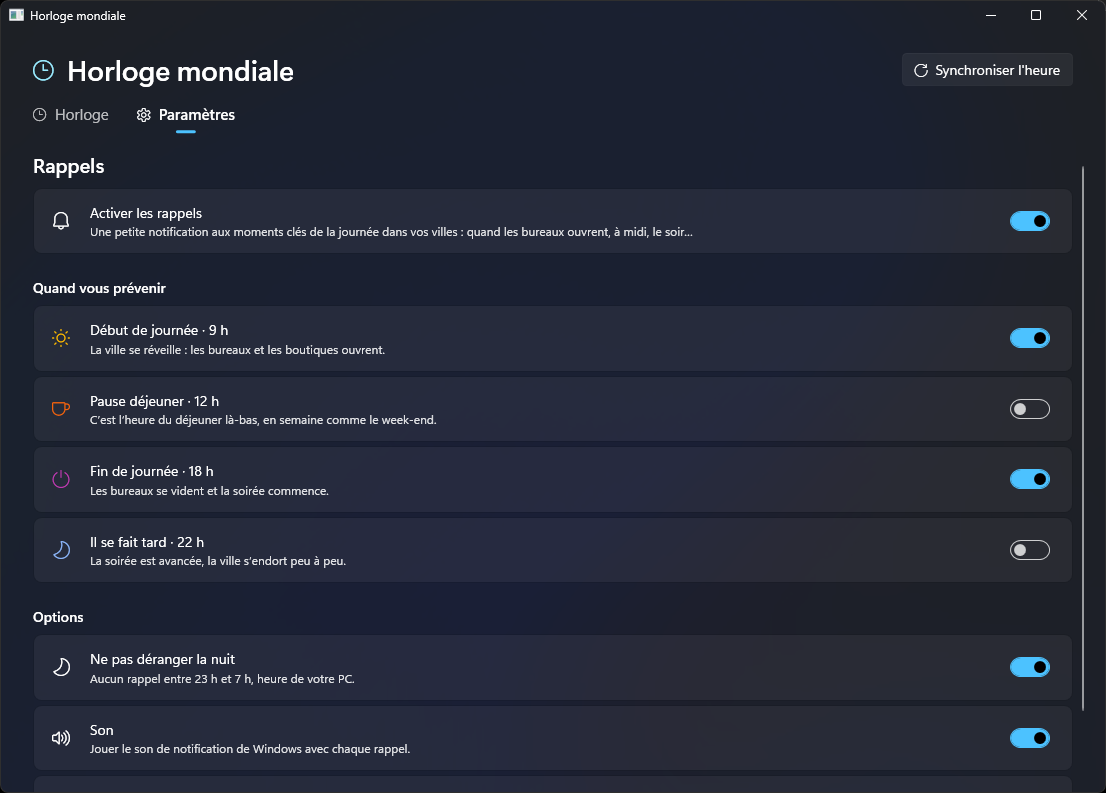
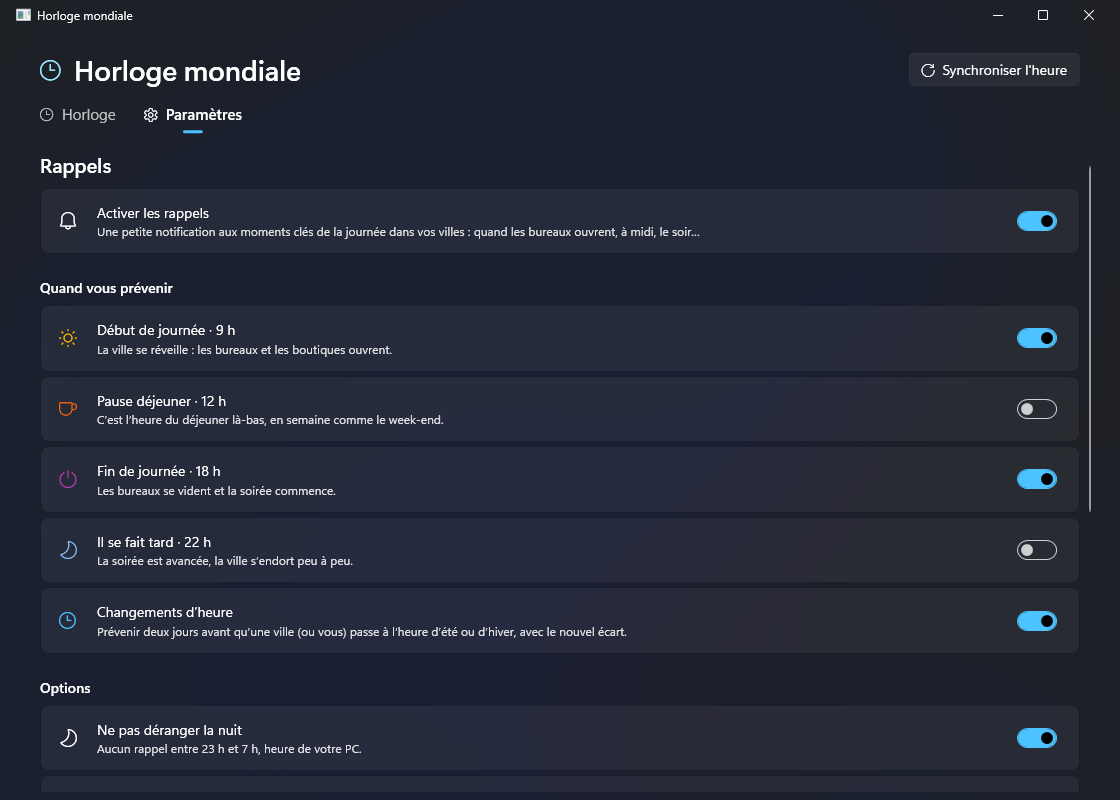
Mise à jour des captures du README et ajout d'une todo list
- Nouvelles captures avec le lever/coucher du soleil et les derniers réglages
- Section « À faire » : météo, carte du monde interactive, installeur
- Version 1.6.1

diff --git a/README.md b/README.md
@@ -32,3 +32,9 @@ Nécessite Windows et le SDK .NET 10.
   ```
   dotnet run
   ```
+
+## À faire
+
+- [ ] Météo de chaque ville sur les cartes
+- [ ] Carte du monde interactive qui affiche l'heure des villes
+- [ ] Setup d'installation
